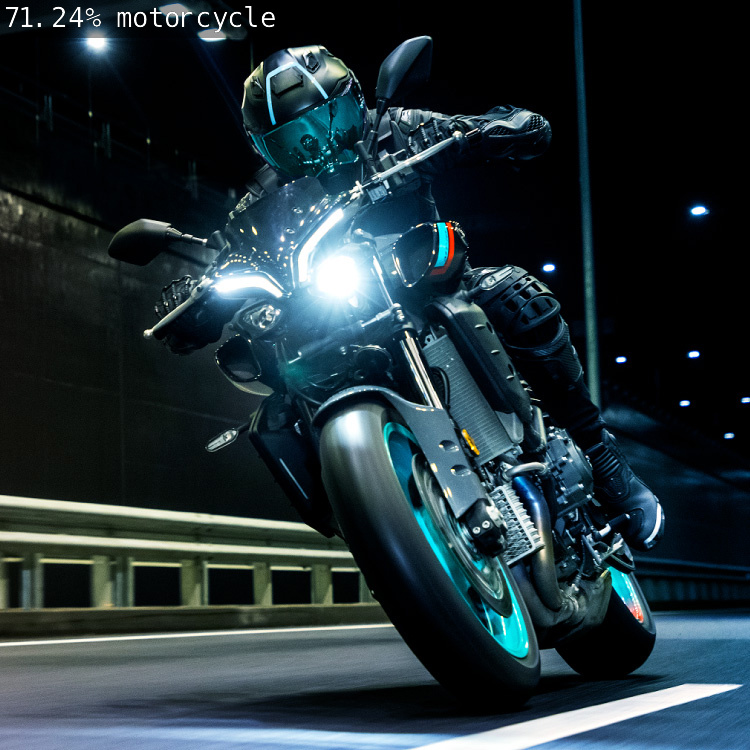
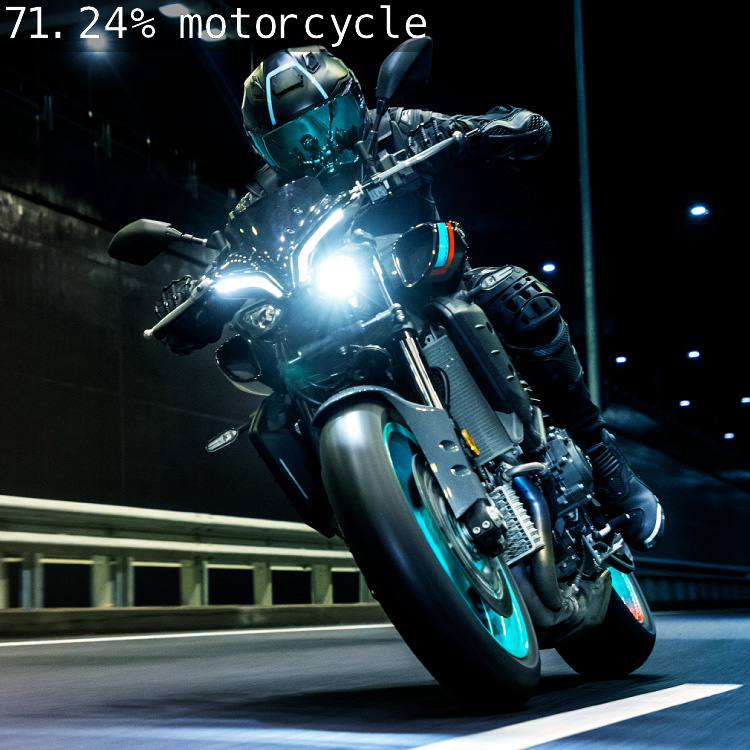
Font size changes based on image size, and updated some examples

Changed region(s): [[0.0, 0.0, 0.5827, 0.092]]

diff --git a/main.py b/main.py
@@ -28,7 +28,8 @@ confidence = round(confidence * 100, 2)
 # 'none' is the default if no argument was passed
 # None is if the user didn't specify a file name, but the flag exists
 if opt.save != 'none':
-    font = jetson_utils.cudaFont()
+    size = 32 * img.shape[1] / 333
+    font = jetson_utils.cudaFont(size=min(max(32, size), 50))
     font.OverlayText(img, text=f"{confidence}% {class_desc}", 
                      x=5, y=5,
                      color=font.White, background=font.Gray40)

diff --git a/examples/README.md b/examples/README.md
@@ -5,5 +5,3 @@
 ![train](./train.class.jpg)
 ![truck](./truck.class.jpg)
 ![moto](./moto.class.jpg)
-![bus2](./bus2.class.jpg)
-![train2](./train2.class.jpg)
